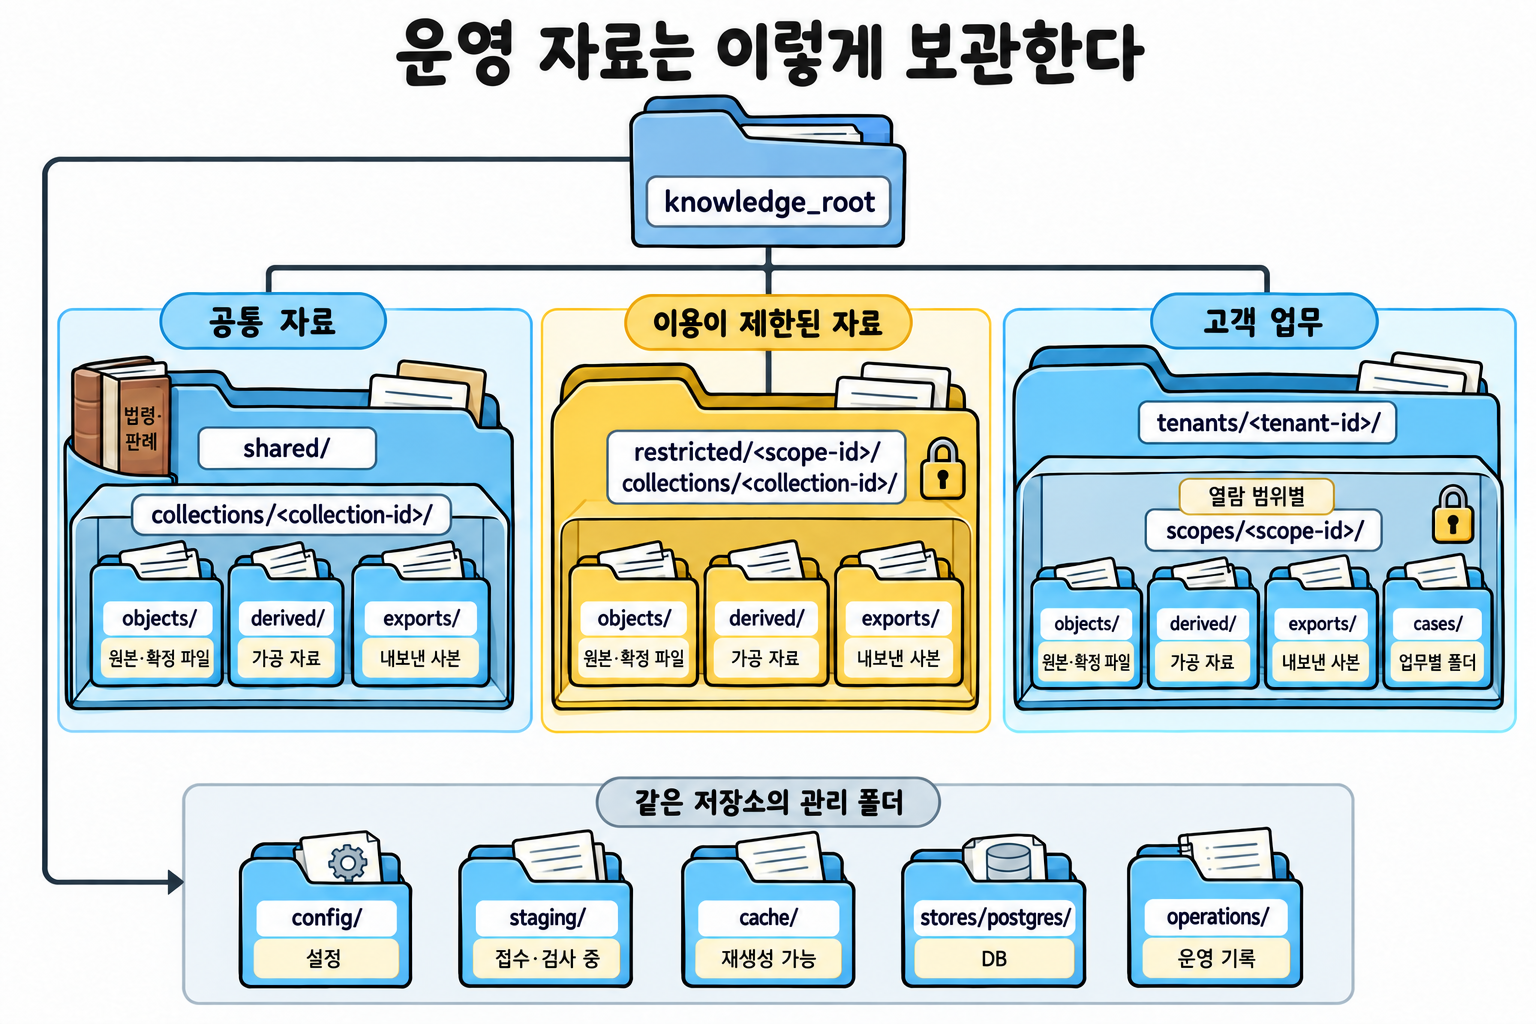
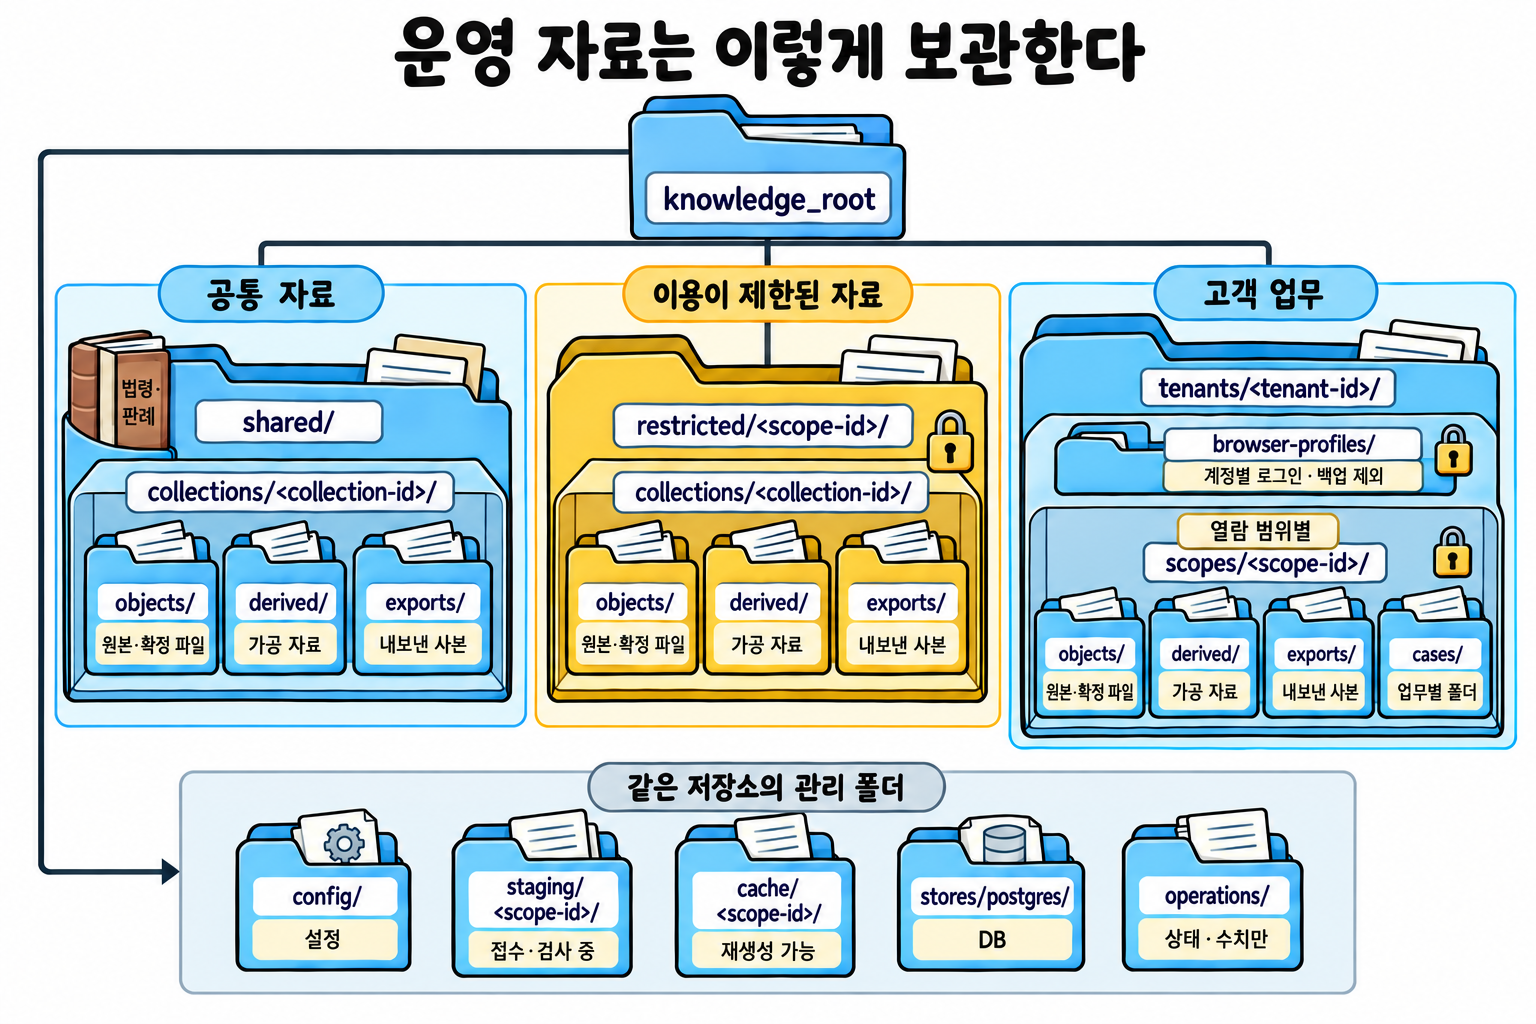
docs/images/expert-implementation/factory-implementation-overview.png 외 8개 수정

diff --git a/docs/images/file-folder-structure/prompts.md b/docs/images/file-folder-structure/prompts.md
@@ -1,5 +1,7 @@
 # 파일·폴더 구조 일러스트 제작 기록
 
+현재 사용본은 **2026-10-23 수정본**이다. 현재 본문과의 대조, 수정 프롬프트와 생성 원본은 아래 [2026-10-23 갱신](#2026-10-23-갱신)에 기록했다. 앞의 2026-10-22 기록은 최초 제작 이력이다.
+
 제작일: 2026-10-22. 내장 `image_gen`으로 생성·수정했다. 외부 AI CLI·API와 외부 다운로드 에셋은 사용하지 않았다.
 
 사용 문서: [파일·폴더 구조](../../../파일-폴더-구조.md). 문서에 적힌 목표 구조를 설명하며 실제 운영 폴더를 구축하거나 자료를 이동한 결과가 아니다.
@@ -145,3 +147,86 @@ Edit this existing explanatory illustration, preserving the entire title, four c
 
 objects/를 cases/와 같은 scope의 형제 폴더로 표시했다. 고정 계획, 지속 대화, 읽기 전용 입력, 미확정 출력, 임시 파일, 납품 묶음과 별도 DB를 구분했다. 검사·확정 후 objects/에 보관하고 허용된 파일만 납품하는 흐름을 확인했다.
 
+
+
+## 2026-10-23 갱신
+
+현재 `파일-폴더-구조.md`와 `공장 구현 설계.md`를 읽고 기존 네 장을 내장 `image_gen`으로 각각 편집했다. 편집 입력은 이 프로젝트가 보유한 기존 그림이며, 외부 다운로드나 합성 에셋은 사용하지 않았다. 수정 결과를 재압축하지 않고 기존 이미지 경로에 복사했다. 본문에서는 대체 설명만 갱신했다.
+
+### storage-locations
+
+- 적용 파일: `docs/images/file-folder-structure/storage-locations.png`
+- 생성 원본: `/Users/haris/.codex/generated_images/01a16613-0859-7242-b180-7aab956df091/exec-52037cae-e242-4d4f-82e6-d94216649874.png`
+- 반영·확인: 작성・설치·운영의 역할을 분리했다. install_root를 실행 주체처럼 보이게 하던 자료 읽기 화살표를 없애고, test_root·평가 계정·관리 계정·PC 밖 백업을 표시했다.
+
+```text
+Edit this existing Korean file-storage architecture illustration to match the revised design. Keep the established polished flat explanatory-manual style, charcoal outlines, pale sky blue and restrained yellow, white background, adult office character, large legible Korean. Landscape 3:2 high resolution. Redraw/reflow as needed for the following content, without cramming. No decorative title underline or slogan.
+
+Title: "작성 · 설치 · 운영을 나눈다". Small status label "목표 구조".
+Upper 60% has THREE main roles:
+LEFT "작성 원본", path "expert-factory/": author at desk with folders for "코드", "지식·실무서", "전문가 구성". Short Git label "Git".
+MIDDLE "설치 판본", path "install_root": checked installed software package and lock, label "검사한 프로그램·구성", second short label "업무 계정은 읽기만".
+RIGHT "운영 자료", path "knowledge_root": archive with original books, customer folders, protected conversation notebook and one DB cylinder. Short label "원본·업무·대화·실행 기록·DB".
+The ONLY upper arrow is LEFT to MIDDLE, labelled "검사 후 설치". Remove the old arrow from storage toward install: install_root is an installed read-only location, not the process performing data access. Do not connect the three roles with misleading process arrows.
+
+Bottom 35% has FOUR clearly distinct illustrated roles, all outside knowledge_root. No enclosing shared data container.
+1 "test_root": small test bench/computer with isolated data cylinder, "시험 전용 DB·파일".
+2 "evaluation_root": locked answer cabinet, "보호 시험·정답", small "평가 계정".
+3 "control_root": protected ledger/key, "삭제·철회·업데이트 이력", small "관리 계정".
+4 "backup_target": external drive and cloud, "DB·파일·보호 이력", small "PC 밖 · 덮어쓰기 방지".
+All text verbatim, clear spacing. The bottom four paths are distinct roots, not subdirectories of knowledge_root. These are roles on an initial single PC plus off-device backup, not seven required servers. Exclude extra fine print. Preserve the friendly diagrammatic folder style with correct hierarchy.
+```
+
+### knowledge-root
+
+- 적용 파일: `docs/images/file-folder-structure/knowledge-root.png`
+- 생성 원본: `/Users/haris/.codex/generated_images/01a16613-0859-7242-b180-7aab956df091/exec-f5a8d1e7-84b6-48c4-bddd-066701bb2afc.png`
+- 반영·확인: browser-profiles/를 tenants/ 안에서 scopes/와 같은 단계로 추가했다. staging/과 cache/의 scope-id, operations/의 상태·수치 전용 역할, 관리 폴더의 루트 직속 관계를 확인했다.
+
+```text
+Edit this Korean illustrated folder tree. Preserve title "운영 자료는 이렇게 보관한다", all exact directory names, white background, charcoal outlines, blue/yellow folders, the three main data groups and bottom management shelf. Reflow only enough to add the missing directories legibly. Landscape 3:2 high resolution.
+
+Required hierarchy:
+knowledge_root branches separately to shared/, restricted/<scope-id>/, tenants/<tenant-id>/ AND the bottom same-root management shelf. Keep the outer line that connects the bottom shelf directly to knowledge_root; NEVER connect it through restricted/.
+shared/: collections/<collection-id>/ contains objects/ "원본·확정 파일", derived/ "가공 자료", exports/ "내보낸 사본". Preserve.
+restricted/<scope-id>/: collections/<collection-id>/ contains the same three. Preserve.
+Right "고객 업무" group under tenants/<tenant-id>/ must now contain TWO visibly separate siblings:
+- A small horizontal locked folder "browser-profiles/" with short label "계정별 로그인 · 백업 제외". This sits INSIDE tenants but OUTSIDE scopes, ABOVE the scopes compartment. It represents encrypted customer-account browser state, not a public browser history.
+- The existing larger "scopes/<scope-id>/" compartment with label "열람 범위별". Inside are objects/, derived/, exports/, cases/ and their existing labels. No collections here.
+Make the right group a little taller or the entire tree more compact vertically as needed, while keeping all labels readable.
+
+Bottom five folders remain siblings directly under knowledge_root:
+"config/" label "설정"
+Change "staging/" to TWO lines "staging/" and "<scope-id>/", label "접수·검사 중"
+Change "cache/" to TWO lines "cache/" and "<scope-id>/", label "재생성 가능"
+"stores/postgres/" label "DB"
+"operations/" label "상태·수치만".
+staging and cache are scope-specific. operations stores identifiers/status/metrics only, not sensitive content or full traces. Full run traces are in customer cases, do not add them at root.
+No arrows between public, restricted and customer data. Do not imply customer data is shared. No new paragraph or footer. All technical paths are case-sensitive verbatim, including hyphens and angle brackets.
+```
+
+### case-folders
+
+- 적용 파일: `docs/images/file-folder-structure/case-folders.png`
+- 생성 원본: `/Users/haris/.codex/generated_images/01a16613-0859-7242-b180-7aab956df091/exec-022b8229-9ce8-42e9-a09d-73098ff6941a.png`
+- 반영·확인: cases/ 아래에 traces/를 추가하고 work/ 안에 logs/를 추가했다. 지속 대화·보호 실행 기록·도구 출력 로그를 구분했다. objects/와 cases/의 형제 관계를 유지하고 검사·확정 → objects/ → 별도 저장소 보관 확인 → 납품 묶음 순서를 표시했다.
+
+```text
+Update this Korean illustrated job-directory diagram to the revised source. Keep its friendly explanatory-manual illustration, white background, blue folders, yellow accents, clean charcoal outlines and natural adult inspector. Landscape 3:2 high resolution. Redraw/reflow into five columns with readable text. Title remains "업무 한 건의 폴더를 열어 보면".
+
+At top a protected "scopes/<scope-id>/" outer folder contains two sibling items: the small "objects/" folder OUTSIDE a wide inner "cases/<case-id>/" folder. Preserve that nesting: objects is NOT inside cases. A separate small DB cylinder at top RIGHT stays entirely OUTSIDE scope; label "DB" and "현재 상태의 기준", with compact "권한 · 계획 · 상태 · 판본".
+
+The inner case folder now contains exactly FIVE sibling folders. These are not sequential workflow steps; use a simple branch line without arrowheads. Use these short path names, individual snapshot/conversation/run/delivery IDs may be omitted:
+1 "snapshots/" with heading "실행 기준", pinned document, label "고정한 계획·입력·환경".
+2 "sessions/" with heading "지속 대화", encrypted notebook with lock and two subfolders "sdk/" labelled "대화 기록" and "cwd/" labelled "허용 작업 경로". This is persistent, not temporary.
+3 NEW "traces/" with heading "보호 실행 기록", locked ledger with three short text lines "모델 입력·응답", "도구 호출·결과", "관리 프로그램만 기록". This is separate from logs/ and work/. Never add a successful checkmark claiming already implemented.
+4 "work/" with heading "실행별 작업", four clearly named internal subfolders in a compact 2x2 arrangement: "input/" with lock and "읽기 전용"; "output/" with pencil and "미확정 결과"; "tmp/" with wastepaper and "임시 파일"; NEW "logs/" with terminal page and "도구·SDK 출력". All four inside work. Make this column wider than others as needed.
+5 "deliveries/" with heading "납품 묶음", checklist labelled "manifest.json" and package labelled "package.zip".
+
+Below the entire hierarchy is a clearly separate process strip titled "결과를 확정할 때". It has this exact left-to-right workflow, each blue arrow ending at the correct item:
+"output/" sheet -> human magnifier "검사·확정" -> "objects/" archive -> off-device backup/checkpoint icon "별도 저장소 보관 확인" -> "deliveries/" parcel.
+Small label over the last arrow "허용된 파일만".
+The backup checkpoint must be between the confirmed archive and delivery. No direct output-to-delivery bypass. Deliveries is a prepared bundle, not evidence that sending/acceptance has occurred. Preserve generous margins, no border touching letters, all Korean and English correctly spelled. Do not add explanatory paragraphs.
+```
+
+네 장 모두 1536×1024px PNG이며, 생성 결과와 1100px 폭의 headless Chromium 표시를 직접 확인했다. 한글·기술 식별자·포함 관계·화살표·잘림을 확인했다. 그림에서 생략한 개별 ID와 세부 설정 파일은 본문의 정확한 텍스트 트리를 따른다. 실제 공장 구현이나 자료 이전 완료를 뜻하지 않는다.

diff --git a/docs/images/expert-implementation/공장-구현-그림-프롬프트.md b/docs/images/expert-implementation/공장-구현-그림-프롬프트.md
@@ -1,5 +1,7 @@
 # 공장 구현 설계 일러스트
 
+현재 사용본은 **2026-10-23 수정본**이다. 현재 본문과의 대조, 수정 프롬프트와 생성 원본은 아래 [2026-10-23 갱신](#2026-10-23-갱신)에 기록했다. 앞의 2026-10-22 기록은 최초 제작 이력이다.
+
 제작일: 2026-10-22. 내장 `image_gen`으로 생성한 뒤 같은 도구로 연결 관계를 수정했다. 별도 API·CLI를 호출하지 않았다.
 
 사용 위치: [공장 구현 설계](<../../../공장 구현 설계.md>)의 도입부.
@@ -47,3 +49,35 @@ Edit this Korean explanatory illustration. Keep the entire image composition, al
 - 접수·처리·검증·전달의 순서, 경험 반영 전에 다시 검증하는 조건, 하나의 공통 기반이 표시돼 있다.
 - 제목·단계·라벨·하단 문구의 한글과 방향, 인물·소품 잘림을 실제 이미지에서 확인했다.
 - 생성 결과를 다시 그리거나 압축하지 않고 프로젝트에 복사했다. 기존 그림은 덮어쓰지 않았다.
+
+
+## 2026-10-23 갱신
+
+현재 `파일-폴더-구조.md`와 `공장 구현 설계.md`를 읽고 기존 네 장을 내장 `image_gen`으로 각각 편집했다. 편집 입력은 이 프로젝트가 보유한 기존 그림이며, 외부 다운로드나 합성 에셋은 사용하지 않았다. 수정 결과를 재압축하지 않고 기존 이미지 경로에 복사했다. 본문에서는 대체 설명만 갱신했다.
+
+### factory-implementation-overview
+
+- 적용 파일: `docs/images/expert-implementation/factory-implementation-overview.png`
+- 생성 원본: `/Users/haris/.codex/generated_images/01a16613-0859-7242-b180-7aab956df091/exec-d4fa4e93-e5c3-4989-9c0b-df287fa95aa4.png`
+- 반영·확인: 전문성 확보 → 전문가 조립·시험 → 업무 처리·후속으로 갱신했다. 근거와 독립 사례 검증, 공통 관리 프로그램(FastAPI·DBOS)·PostgreSQL·업무별 격리 실행, 별도 감시 프로그램과 별도 권한 채점, 경험 후보 검증 후 새 버전 반영을 표시했다.
+
+```text
+Update this Korean factory explanatory illustration for its revised software design. Keep recognizable editorial illustration style: white background, charcoal outlines, pale sky blue, restrained yellow/green, natural adult office workers, readable Korean, landscape 3:2. No robots, machinery factory, gradients, glitter or decorative footer slogan. Reflow for the new content.
+
+Title "전문가를 만드는 공장"; small status "구현 설계".
+Upper 60%: THREE spacious illustrated scenes connected left-to-right with simple blue arrows.
+1 heading "전문성 확보": analyst compares original books, work examples and evidence; three small folders "지식", "판단법", "절차". Clear checked evidence sheet for independent confirmation, short label "근거 확인 · 독립 사례 검증". The acquired knowledge is reusable; don't draw a private database per specialist.
+2 heading "전문가 조립·시험": one builder combines knowledge/manual, registered tool and evaluation sheet into THREE grouped specialist profile cards labelled "문서", "계산", "외부 처리". One combined connector enters the WHOLE group, not individual one-to-one folder/card arrows. Include test clipboard and small signed release parcel with single label "시험 통과 · 등록". The exam answers stay in a small locked cabinet beside the test sheet marked "별도 권한 채점", visibly OUTSIDE the shared execution platform below.
+3 heading "업무 처리·후속": expert checks a report and hands it to a customer, with a small calendar and loop/check symbol for ongoing follow-up. Under the scene, a short path "접수 → 처리 → 검증 → 전달 → 후속". A simple request folder at entry, no missing required validation. Delivery is not the end of all obligations.
+
+Beneath the three scenes, a blue left-pointing feedback arrow runs from the work scene back to the expertise scene, avoiding all text, label "경험 후보 → 검증 → 새 버전". Arrowhead at LEFT only. Customer private documents must not be shown flowing directly into public knowledge.
+
+Bottom 25%: ONE shared light-blue platform labelled prominently "공통 실행 기반". It supports expertise acquisition, assembly and customer work together; no new runtime for each specialist. Within the platform show THREE substantial illustrated components side by side, not a detailed network diagram:
+- management screen "관리 프로그램" with smaller "FastAPI · DBOS", depiction of queued tasks/resume
+- ONE DB cylinder "PostgreSQL" with smaller "업무·지식·권한·기록"
+- two clearly separated small execution compartments grouped under "업무별 격리 실행", with smaller "AI · 등록 도구"
+At the far RIGHT outside the platform border, a small monitoring screen with bell icon labelled "별도 감시 프로그램", connected by one short dotted observation line toward the platform. It is a separate process, not a second work manager. All bottom text comfortably readable.
+Do not claim implemented production software or professional qualifications. Do not show real API credentials, public customer data, or automatic production release without tests. No footer sentence. Main visual story is reusable expertise -> tested configuration -> completed and followed-up work, all powered by one runtime with isolated execution.
+```
+
+네 장 모두 1536×1024px PNG이며, 생성 결과와 1100px 폭의 headless Chromium 표시를 직접 확인했다. 한글·기술 식별자·포함 관계·화살표·잘림을 확인했다. 그림에서 생략한 개별 ID와 세부 설정 파일은 본문의 정확한 텍스트 트리를 따른다. 실제 공장 구현이나 자료 이전 완료를 뜻하지 않는다.

diff --git a/공장 구현 설계.md b/공장 구현 설계.md
@@ -2,7 +2,7 @@
 
 **공통 실행 프로그램을 한 번 만들고, 분야별 지식과 판단법, 도구, 평가를 연결해 여러 전문가를 만든다. 만들어진 전문가는 같은 프로그램에서 업무를 접수하고 처리하고 검증하고 전달하며, 이후의 변화까지 관리한다.**
 
-![공장 구현 전체 그림](docs/images/expert-implementation/factory-implementation-overview.png)
+![전문성 확보와 전문가 조립·시험, 업무 처리·후속을 하나의 관리 프로그램·DB·격리 실행 기반에 연결하고 별도 감시와 채점을 구분한 공장 구현 설계](docs/images/expert-implementation/factory-implementation-overview.png)
 
 전문가가 갖춰야 할 구성 요소를 재료라 부르며, 재료마다 번호가 붙어 있다. 이 문서는 모든 재료를 공통 실행 프로그램의 어느 부분에 넣고, 어떤 자료를 주고받고, 어떤 순서로 개발할지 정한다.
 
